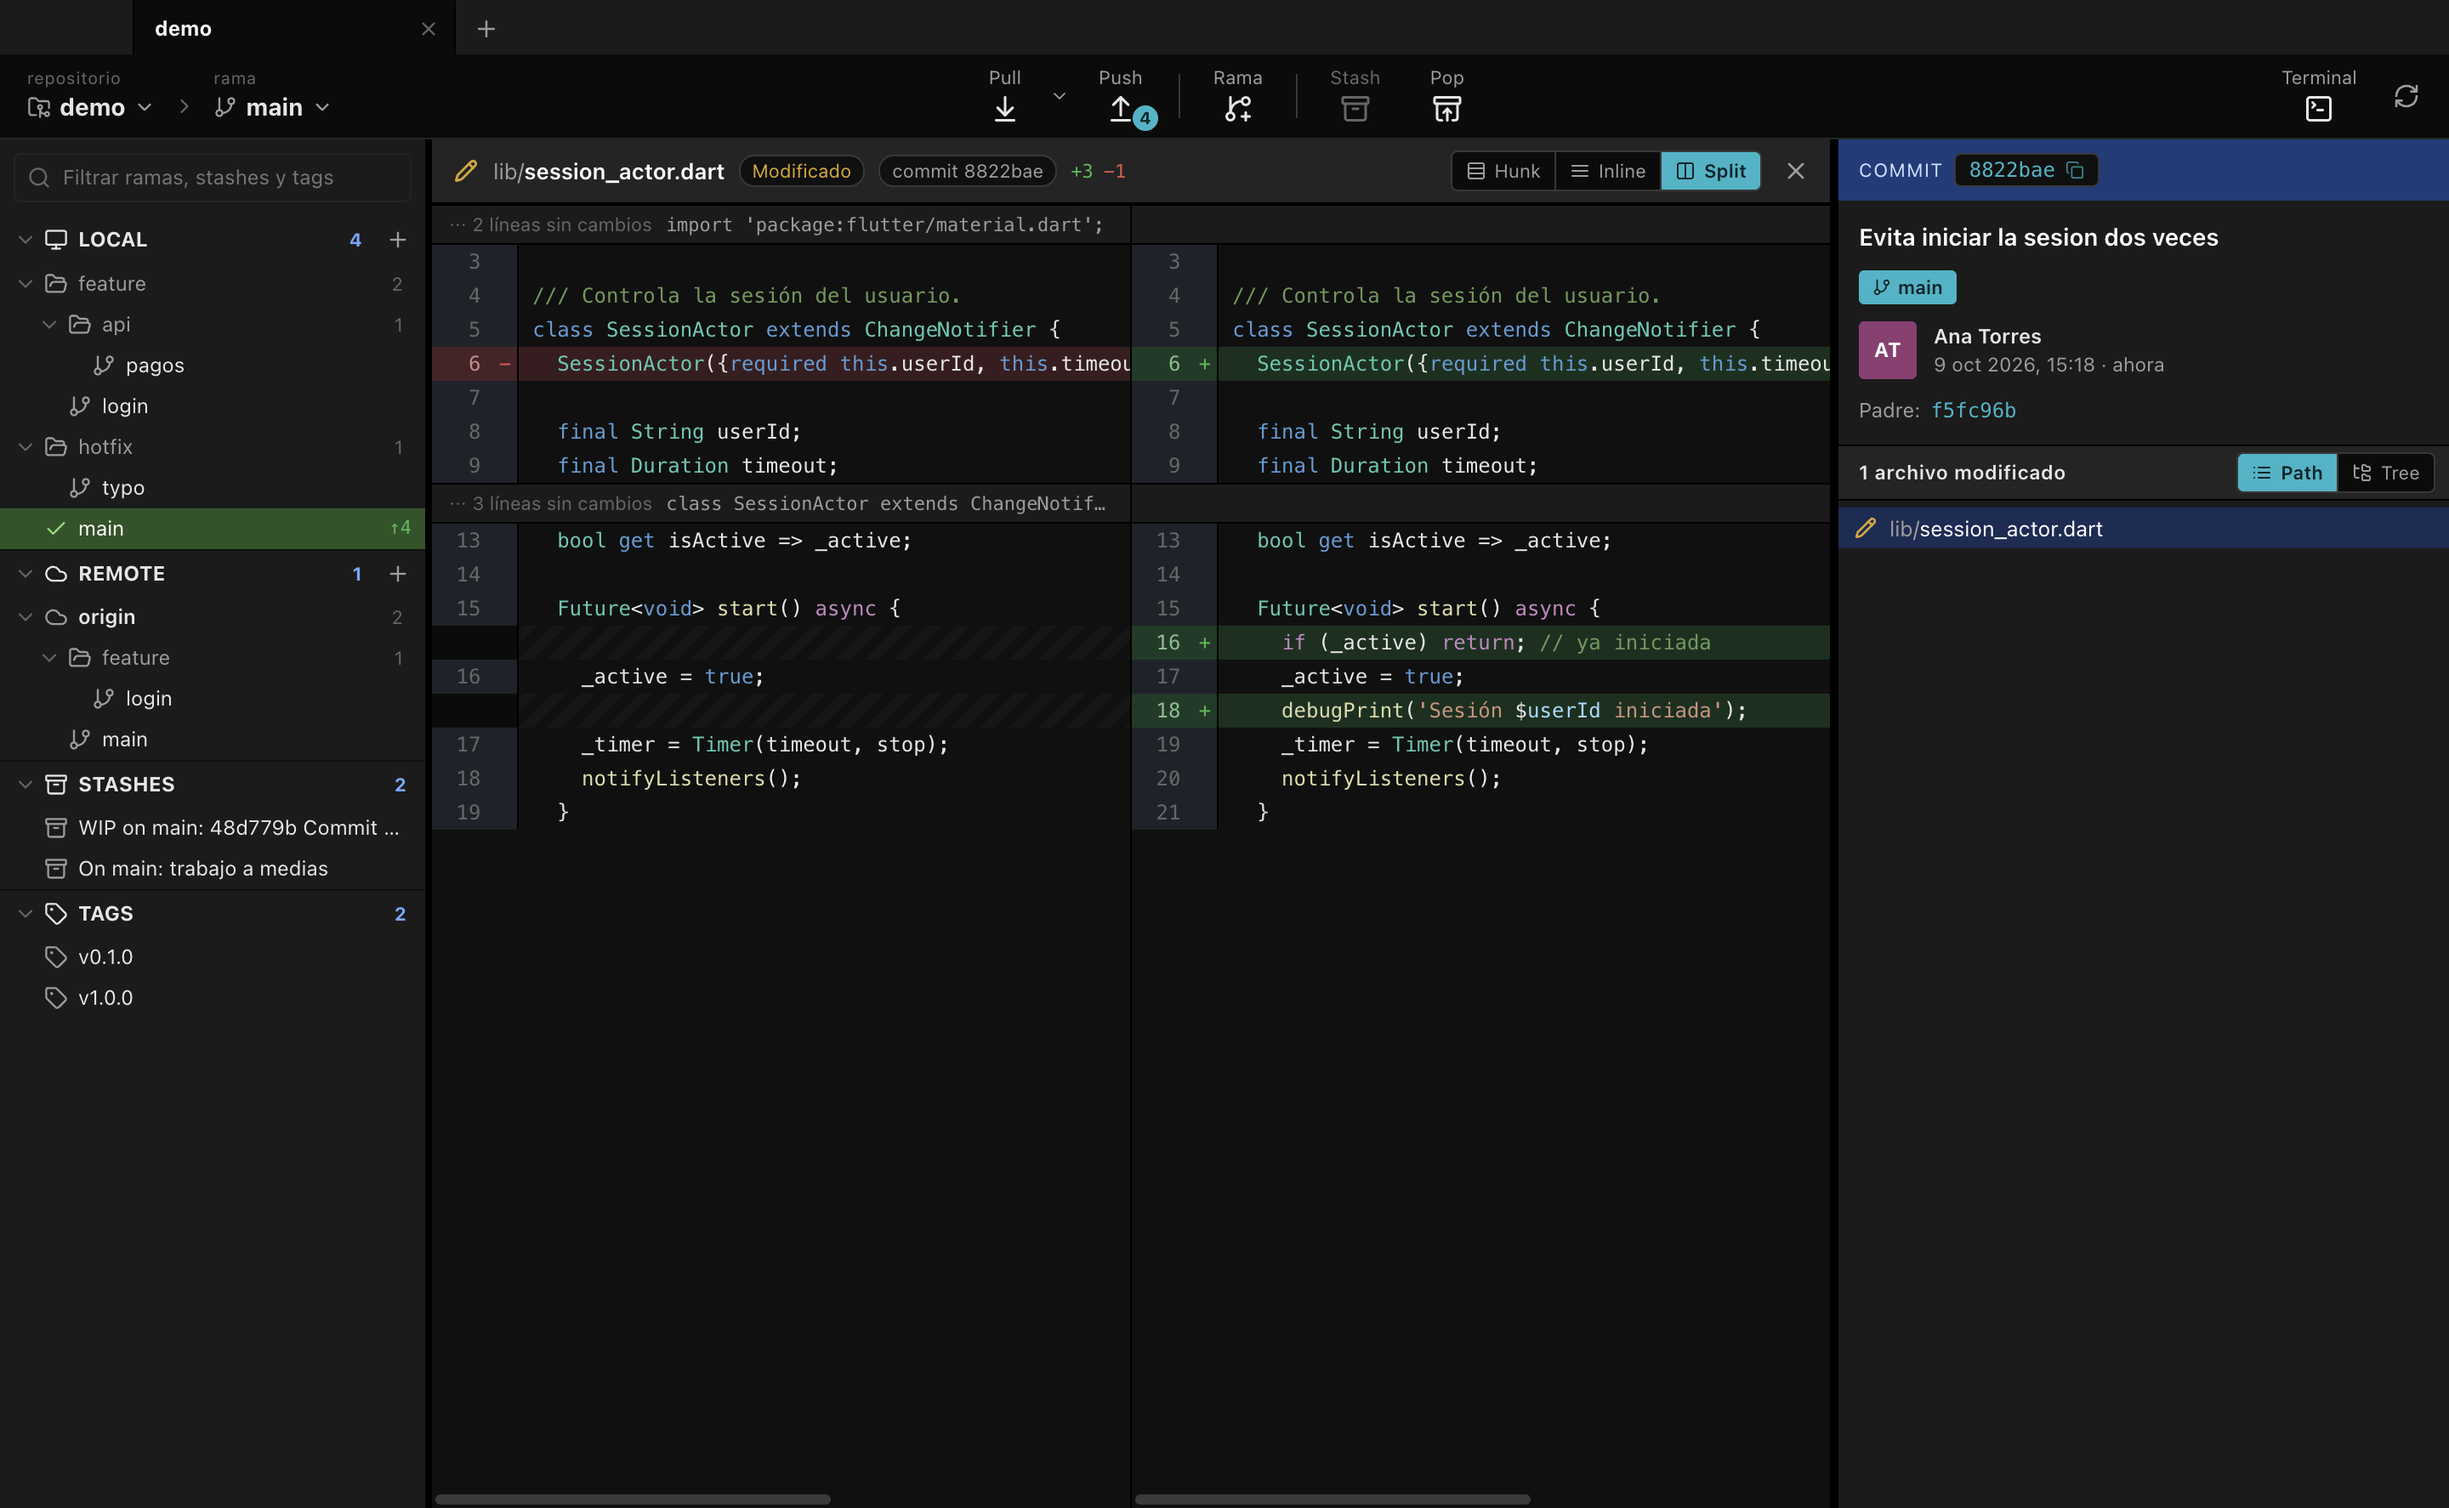
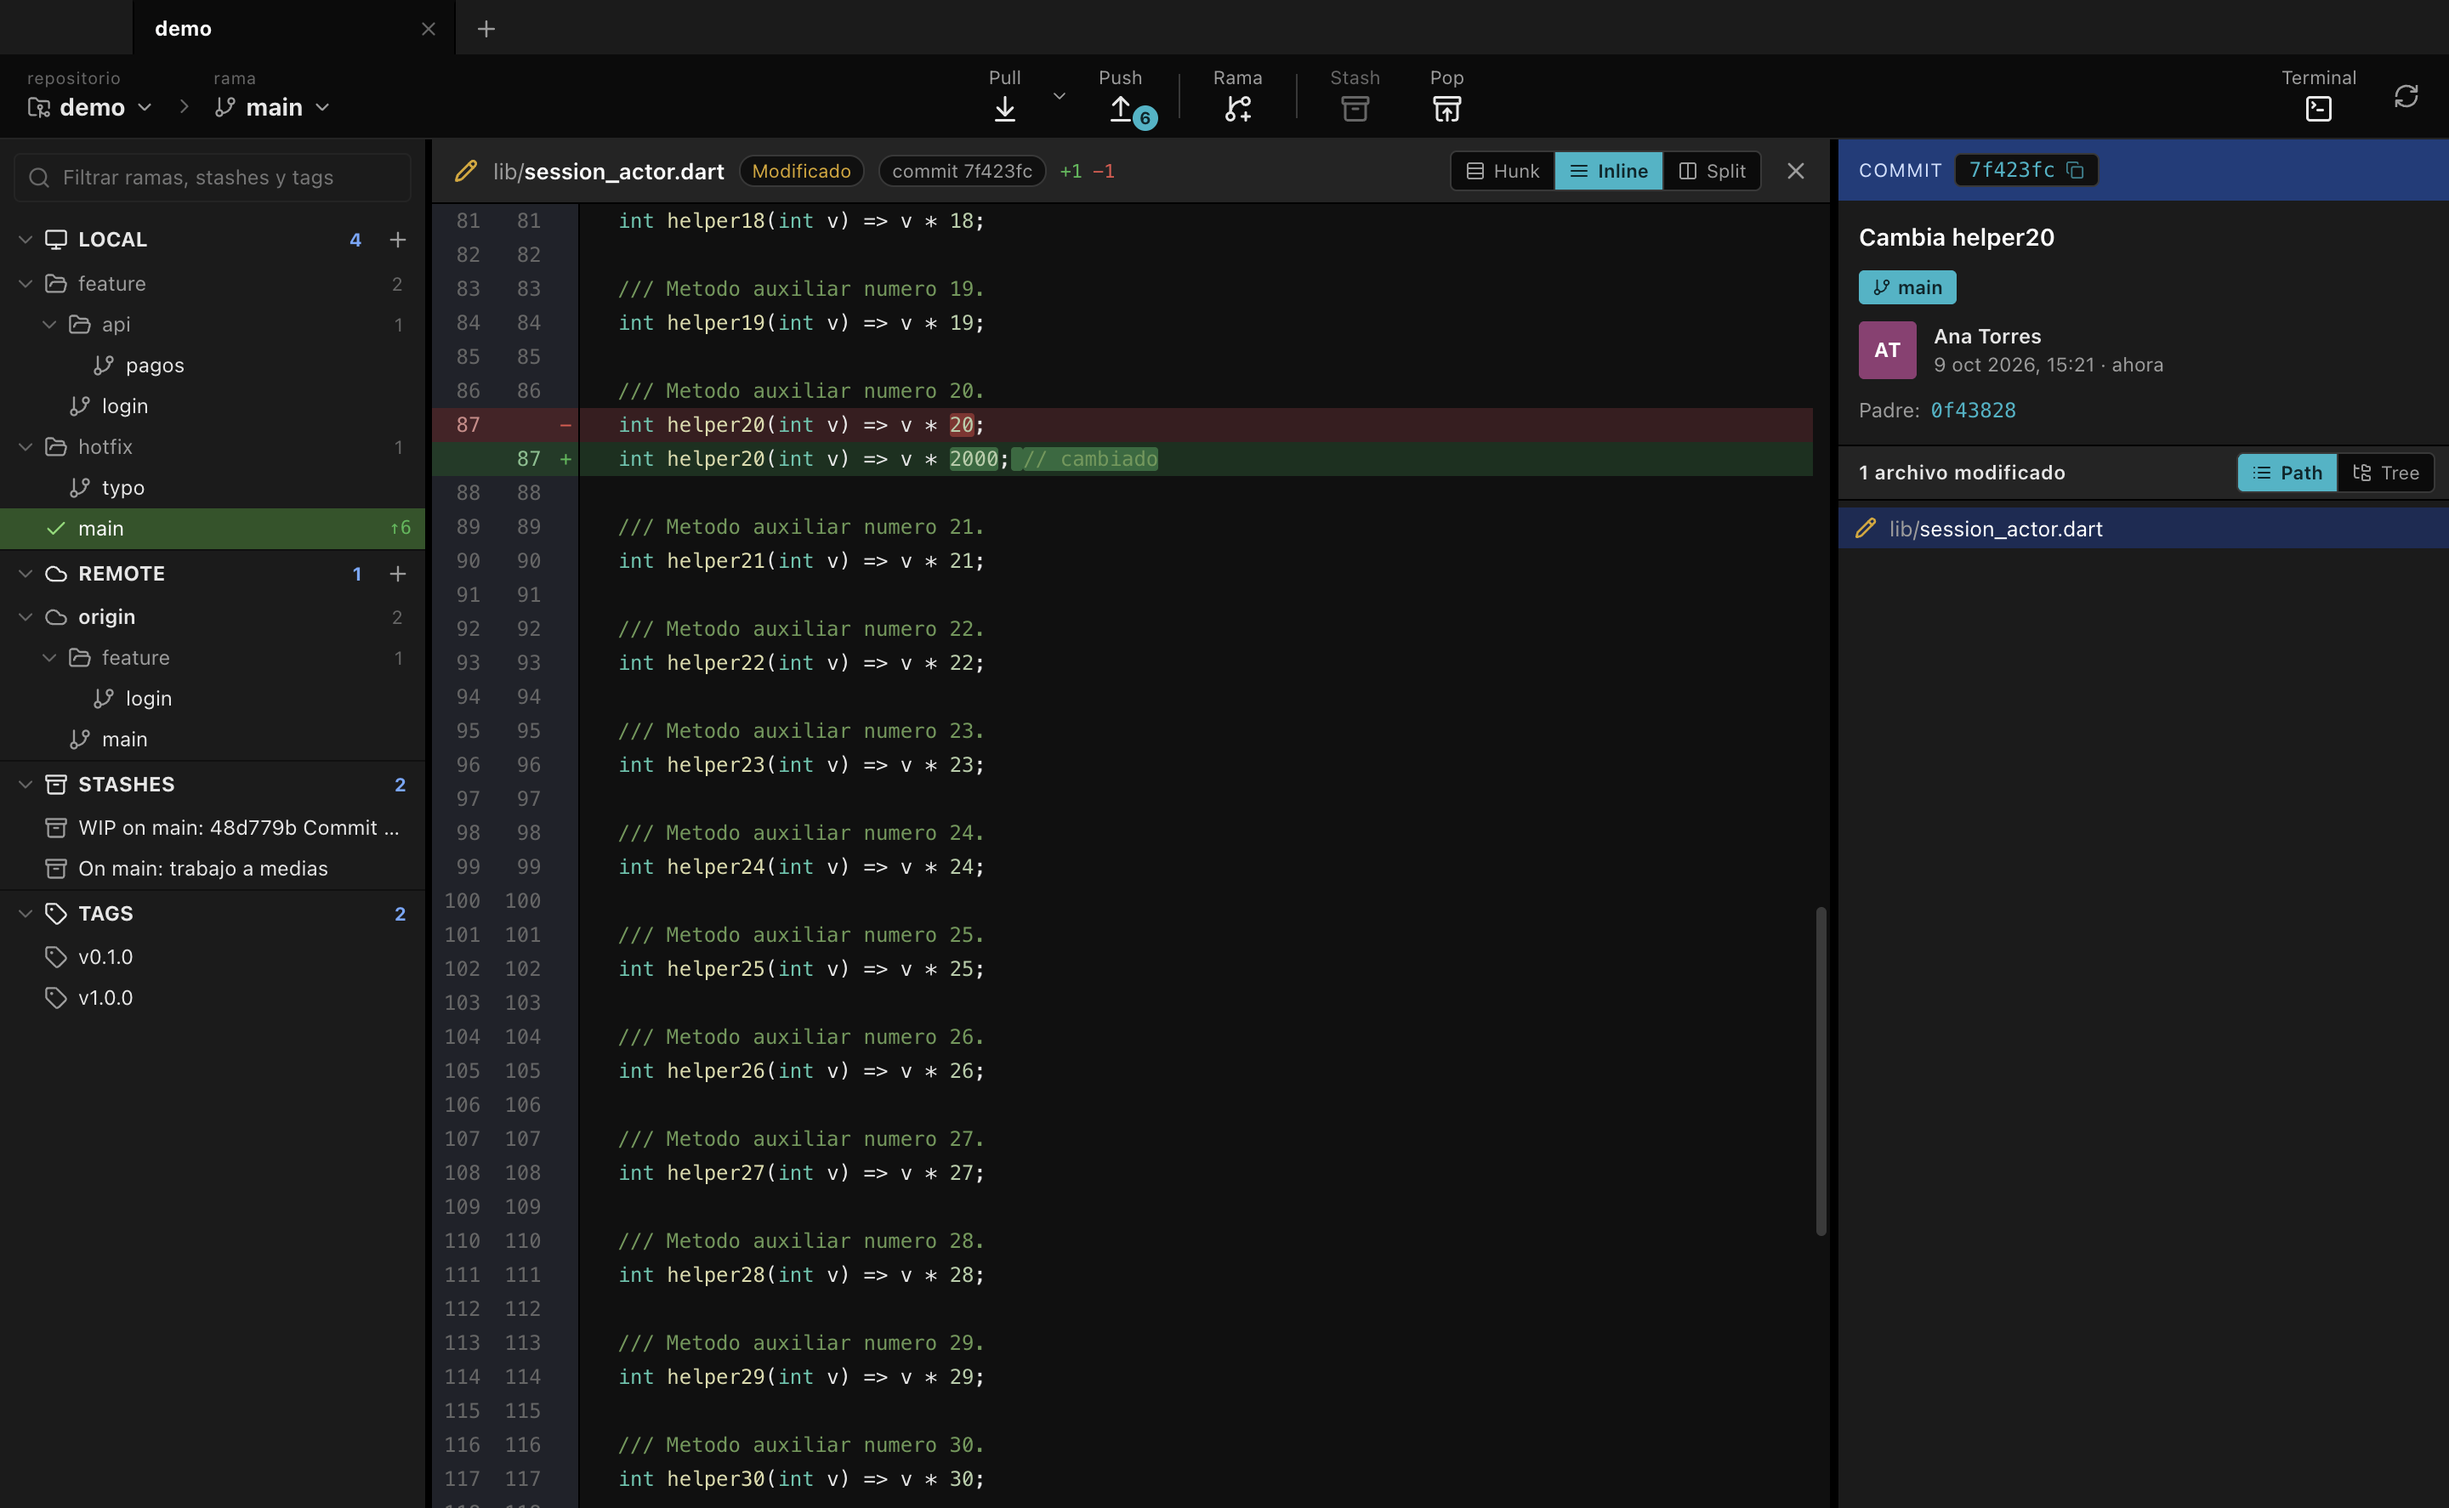
Show the whole file in Inline and Split diff views

diff --git a/src/renderer/src/components/diff/DiffView.tsx b/src/renderer/src/components/diff/DiffView.tsx
@@ -20,7 +20,7 @@ import { confirmDialog } from '../ui/overlays'
 import { STATUS_META, Segmented, StatusIcon, readPref, splitPath, writePref } from '../details/common'
 import { findDiffFile, parseDiff, type DiffFile, type DiffLine } from './parseDiff'
 import { buildHunkPatch } from './patch'
-import { buildRows, maxWidths, rowAt, rowOffsets, visibleRange, type DiffRow, type ViewMode } from './rows'
+import { ROW_HEIGHT, buildRows, maxWidths, rowAt, rowOffsets, visibleRange, type DiffRow, type ViewMode } from './rows'
 import { wordDiff, type Segment, type WordDiff } from './wordDiff'
 import { highlightFile, mergeTokens, type TokenMap } from './highlight'
 import './DiffView.css'
@@ -54,7 +54,7 @@ export function DiffView() {
   const sel = useStore((s) => s.selectedFile)
   const status = useStore((s) => s.status)
   const busy = useStore((s) => s.busy !== null)
-  const [mode, setModeState] = useState<ViewMode>(() => readPref(MODE_KEY, MODES, 'hunk'))
+  const [mode, setModeState] = useState<ViewMode>(() => readPref(MODE_KEY, MODES, 'inline'))
   const [loaded, setLoaded] = useState<Loaded | null>(null)
 
   const setMode = (m: ViewMode) => {
@@ -62,7 +62,9 @@ export function DiffView() {
     writePref(MODE_KEY, m)
   }
 
-  const key = sel ? fileKey(repo, sel) : ''
+  // Hunk view shows only the changes; Inline and Split show the whole file
+  const full = mode !== 'hunk'
+  const key = sel ? fileKey(repo, sel) + (full ? '\0full' : '') : ''
   const isWip = !!sel && !sel.commit
   // Only working-tree files are refetched when the status changes
   const liveStatus = isWip ? status : null
@@ -76,7 +78,8 @@ export function DiffView() {
         oldPath: sel.oldPath,
         commit: sel.commit,
         staged: sel.staged,
-        untracked: sel.untracked
+        untracked: sel.untracked,
+        fullContext: full
       })
       .then(
         (text) => {
@@ -201,7 +204,7 @@ export function DiffView() {
         <Notice text={emptyReason(file)} />
       ) : (
         <SyntaxCtx.Provider value={tokens}>
-          <DiffBody key={key} file={file} mode={mode} actions={canApplyHunks ? actions : null} busy={busy} />
+          <DiffBody key={key} file={file} mode={mode} actions={canApplyHunks && !full ? actions : null} busy={busy} />
         </SyntaxCtx.Provider>
       )}
     </div>
@@ -383,6 +386,18 @@ function DiffBody(props: { file: DiffFile; mode: ViewMode; actions: HunkActions 
     }
     // eslint-disable-next-line react-hooks/exhaustive-deps
   }, [mode])
+
+  // Whole-file views open on the first change instead of the top of the file
+  useLayoutEffect(() => {
+    const el = mainRef.current
+    if (!el || mode === 'hunk') return
+    const changed = (l: DiffLine | null) => !!l && l.type !== 'context'
+    const index = rows.findIndex((r) => (r.kind === 'line' ? changed(r.line) : r.kind === 'split' && (changed(r.left) || changed(r.right))))
+    if (index > 0) el.scrollTop = Math.max(0, offsets[index] - 6 * ROW_HEIGHT.line)
+    if (leftRef.current) leftRef.current.scrollTop = el.scrollTop
+    update()
+    // eslint-disable-next-line react-hooks/exhaustive-deps
+  }, [])
 
   useLayoutEffect(update, [update])
 

diff --git a/src/main/git/core.ts b/src/main/git/core.ts
@@ -135,6 +135,8 @@ function gitWithPaths(repo: string, args: string[], paths: Iterable<string>): Pr
 
 /** Diff flags that keep the output a plain, appliable unified diff. */
 const DIFF_FLAGS = ['--no-color', '--no-ext-diff', '--no-textconv', '--find-renames']
+/** More context lines than any file has: the diff then carries the whole file */
+const FULL_CONTEXT = '--unified=10000000'
 
 // --- repositories --------------------------------------------------------------------
 
@@ -283,11 +285,12 @@ async function diff(repo: string, req: DiffRequest): Promise<string> {
   if (!req || typeof req.path !== 'string' || !req.path) throw new Error('Missing file path')
   const paths = req.oldPath && req.oldPath !== req.path ? [req.oldPath, req.path] : [req.path]
   assertPaths(paths)
+  const flags = req.fullContext ? [...DIFF_FLAGS, FULL_CONTEXT] : DIFF_FLAGS
 
   if (req.commit) {
     assertRef(req.commit, 'commit')
     const commitDiff = (rev: string, files: string[]): Promise<string> =>
-      git(repo, ['diff-tree', '-p', '--root', '--no-commit-id', ...DIFF_FLAGS, '--diff-merges=first-parent', rev, '--', ...files], LITERAL)
+      git(repo, ['diff-tree', '-p', '--root', '--no-commit-id', ...flags, '--diff-merges=first-parent', rev, '--', ...files], LITERAL)
     const out = await commitDiff(req.commit, paths)
     if (out) return out
     // Stash with untracked files: those live in the third parent, a root commit.
@@ -299,9 +302,9 @@ async function diff(repo: string, req: DiffRequest): Promise<string> {
   }
 
   if (req.untracked) return untrackedDiff(repo, req.path)
-  if (req.staged) return git(repo, ['diff', '--cached', ...DIFF_FLAGS, '--', ...paths], LITERAL)
+  if (req.staged) return git(repo, ['diff', '--cached', ...flags, '--', ...paths], LITERAL)
 
-  const out = await git(repo, ['diff', ...DIFF_FLAGS, '--', ...paths], LITERAL)
+  const out = await git(repo, ['diff', ...flags, '--', ...paths], LITERAL)
   if (out) return out
   // Nothing vs the index: maybe the caller did not flag an untracked file.
   const others = await git(repo, ['ls-files', '--others', '--exclude-standard', '-z', '--', req.path], LITERAL)

diff --git a/src/main/git/__tests__/core.test.ts b/src/main/git/__tests__/core.test.ts
@@ -487,6 +487,29 @@ describe('commit', () => {
 })
 
 describe('diff', () => {
+  it('fullContext returns the whole file as one hunk (worktree, staged and commit)', async () => {
+    const repo = emptyRepo()
+    const body = (changed: string) => Array.from({ length: 60 }, (_, i) => (i === 29 ? changed : `line ${i + 1}`)).join('\n') + '\n'
+    commitFiles(repo, { 'a.txt': body('line 30') }, 'base')
+    write(repo, 'a.txt', body('LINE 30'))
+
+    const short = await api.diff(repo, { path: 'a.txt' })
+    expect(short).toContain('@@ -27,7 +27,7 @@')
+    expect(short).not.toContain(' line 1\n')
+
+    const full = await api.diff(repo, { path: 'a.txt', fullContext: true })
+    expect(full).toContain('@@ -1,60 +1,60 @@')
+    expect(full).toContain(' line 1\n')
+    expect(full).toContain('-line 30\n+LINE 30\n')
+    expect(full).toContain(' line 60\n')
+
+    await api.stage(repo, ['a.txt'])
+    expect(await api.diff(repo, { path: 'a.txt', staged: true, fullContext: true })).toContain('@@ -1,60 +1,60 @@')
+    await api.commit(repo, 'change')
+    const head = (await api.log(repo))[0]!.hash
+    expect(await api.diff(repo, { path: 'a.txt', commit: head, fullContext: true })).toContain('@@ -1,60 +1,60 @@')
+  })
+
   it('unstaged, staged and untracked diffs', async () => {
     const repo = emptyRepo()
     commitFiles(repo, { 'a.txt': 'one\ntwo\nthree\n' }, 'base')

diff --git a/src/shared/types.ts b/src/shared/types.ts
@@ -69,6 +69,8 @@ export interface DiffRequest {
   staged?: boolean
   /** Untracked file: diff against /dev/null */
   untracked?: boolean
+  /** Include the whole file as context instead of 3 lines around each change */
+  fullContext?: boolean
 }
 
 export type ResetMode = 'soft' | 'mixed' | 'hard'
